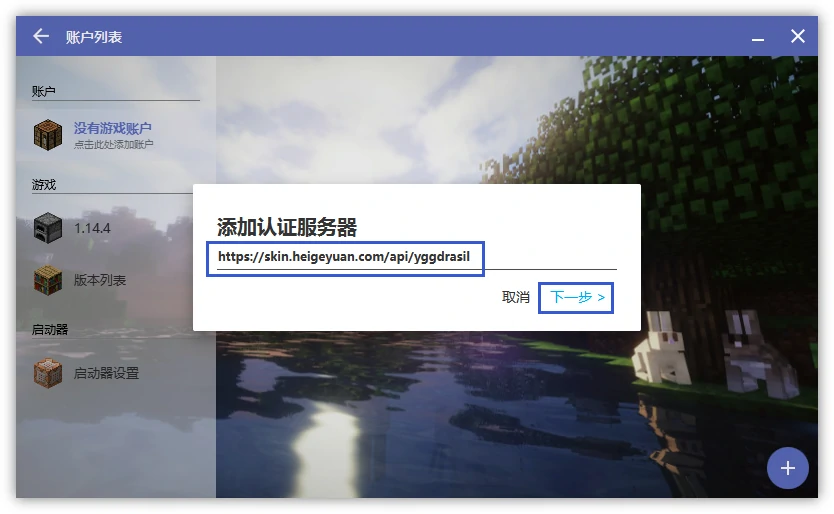
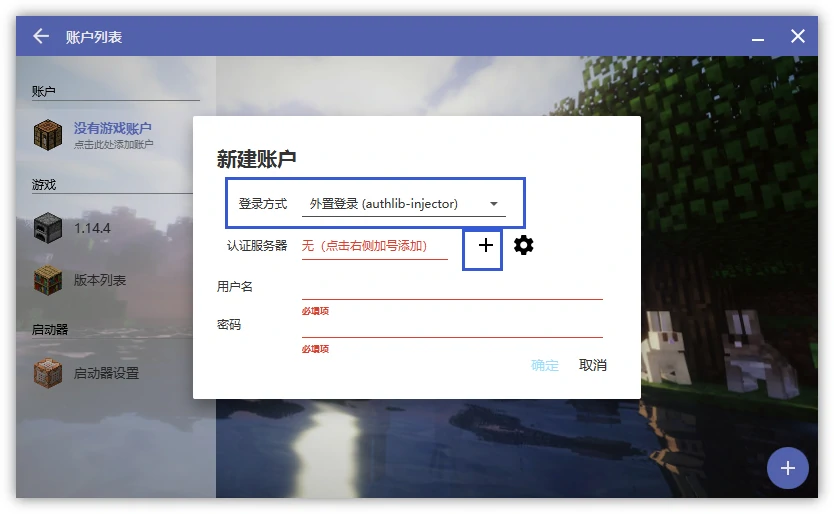
update

Changed region(s): [[0.2182, 0.2179, 0.7794, 0.5603], [0.2182, 0.5292, 0.7794, 0.8093]]

diff --git a/nodes.md b/nodes.md
@@ -10,28 +10,14 @@
 >
 > 待维护: 未来将会维护
 >
-> 更新时间: 2021.6.28
+> 更新时间: 2021.8.18
 
 | 状态             | 别名               | 域名              |
 | ---------------- | ------------------ | ----------------- |
-| 正常, **待维护** | 主节点             | heigeyuan.com     |
-|                  |                    |                   |
-| **未部署**       | 稳定节点-枣庄      | zz.heigeyuan.com  |
-| 正常             | 稳定节点-枣庄1     | zz1.heigeyuan.com  |
-| **未部署**       | 稳定节点-枣庄2     | zz2.heigeyuan.com  |
-| **未部署**       | 稳定节点-枣庄3     | zz3.heigeyuan.com  |
-| **未部署**       | 稳定节点-枣庄4     | zz4.heigeyuan.com  |
-| 正常             | 稳定节点-枣庄5     | zz5.heigeyuan.com  |
-|                  |                    |                   |
-| 正常             | 阿里节点-北京      | bj.heigeyuan.com  |
-| 正常             | 阿里节点-北京1     | bj1.heigeyuan.com |
-| 正常             | 阿里节点-广州      | gz.heigeyuan.com  |
-| 正常             | 阿里节点-广州1     | gz1.heigeyuan.com |
-| 正常             | 阿里节点-深圳      | sz.heigeyuan.com  |
-| 正常             | 阿里节点-上海      | sh.heigeyuan.com  |
-| 正常             | 阿里节点-成都      | cd.heigeyuan.com  |
-|                  |                    |                   |
-| 正常             | 普通节点-河南电信  | hn.heigeyuan.com  |
-| 正常             | 普通节点-成都电信  | cd1.heigeyuan.com |
-| 正常             | 普通节点-成都电信1 | cd2.heigeyuan.com |
-| 正常             | 普通节点-成都电信2 | cd3.heigeyuan.com |
+| 正常     | 主节点             | heigeyuan.com     |
+|          |                    |                   |
+| 正常     | 阿里节点-北京 | bj.heigeyuan.com |
+| 正常     | 阿里节点-广州 | gz.heigeyuan.com |
+| 正常     | 阿里节点-深圳 | sz.heigeyuan.com |
+| 正常     | 阿里节点-上海 | sh.heigeyuan.com |
+| 正常     | 阿里节点-成都 | cd.heigeyuan.com |

diff --git a/Help/new.md b/Help/new.md
@@ -8,11 +8,11 @@
 
 注册/登陆完成后，请查看你的邮箱，在那里会有一封邮件，点击链接验证您的邮箱，请认准 发件人为 **hi@hgy.ooo**，链接域名为 **skin.heigeyuan.com**
 
-如果您想换皮肤的话，请点击这里查看教程
+![](https://heigeyuan-web.oss-accelerate.aliyuncs.com/images/help_new/new_1.webp ':size=50%')
 
 ## 安装客户端
 
-请先前往[下载中心](download.md)下载**HS完整客户端.zip**到本地一个**你喜欢的位置**并解压
+请先前往[下载中心](download.md)下载 **HS完整客户端.zip** 到本地一个**你喜欢的位置**并解压
 
 单击`HMCL.exe`即可打开启动器
 
@@ -22,24 +22,24 @@
 
 ## 进入服务器
 
-打开HMCL，新建账号，选择 **外置登陆(authlib-injector)** ，点击第二行认证服务器的**+**
-
-![](https://heigeyuan-web.oss-accelerate.aliyuncs.com/images/help_new/new_1.webp ':size=50%')
-
-服务器地址输入 `https://skin.heigeyuan.com/api/yggdrasil` ，然后点击下一步
+打开HMCL，新建账号，选择 **外置登陆(authlib-injector)** ，点击第二行认证服务器的+
 
 ![](https://heigeyuan-web.oss-accelerate.aliyuncs.com/images/help_new/new_2.webp ':size=50%')
 
-再点击确认
+服务器地址输入 `https://skin.heigeyuan.com/api/yggdrasil` ，然后点击下一步
 
 ![](https://heigeyuan-web.oss-accelerate.aliyuncs.com/images/help_new/new_3.webp ':size=50%')
 
-**用户名**和**密码**输入你注册时的**邮箱**和**密码**，然后点击确认
+点击确认
 
 ![](https://heigeyuan-web.oss-accelerate.aliyuncs.com/images/help_new/new_4.webp ':size=50%')
 
-最后点击启动游戏即可
+**用户名**和**密码**输入你注册时的**邮箱**和**密码**，然后点击确认
 
 ![](https://heigeyuan-web.oss-accelerate.aliyuncs.com/images/help_new/new_5.webp ':size=50%')
+
+最后点击启动游戏即可
+
+![](https://heigeyuan-web.oss-accelerate.aliyuncs.com/images/help_new/new_6.webp ':size=50%')
 
 ?> 如何选择节点: 可以根据 你所在的位置 和 延迟进行判断

diff --git a/Home.md b/Home.md
@@ -4,19 +4,19 @@
 
 [前往邮箱](https://qiye.aliyun.com/)
 
-[前往网盘](http://app.heigeyuan.com:55567)
+[前往网盘](http://app.heigeyuancz.com:55567)
 
-[查看地图](http://app.heigeyuan.com:55556)
+[查看地图](http://app.heigeyuancz.com:55556)
 
-[查看玩家数据](http://app.heigeyuan.com:55566)
+[查看玩家数据](http://app.heigeyuancz.com:55566)
 
-[查看节点实时状态](https://jk.heigeyuan.com/)
+[查看节点实时状态](https://stats.uptimerobot.com/7OAE8hmLk0)
 
-[查看服务器硬件仪表盘](https://ward.heigeyuan.com/)
+[查看服务器硬件仪表盘](https://ward.heigeyuancz.com/)
 
 Github: [主仓库](https://github.com/qiaoshouzi/HeiGeYuan-General-Warehouse)|[WebApp](https://github.com/qiaoshouzi/heigeyuanWebApp)
 
-客户端最新版本号: `V1.2.2`
+客户端最新版本号: `V2.0.0`
 
 ## 公告 :id=announcement <!-- {docsify-ignore} -->
 
